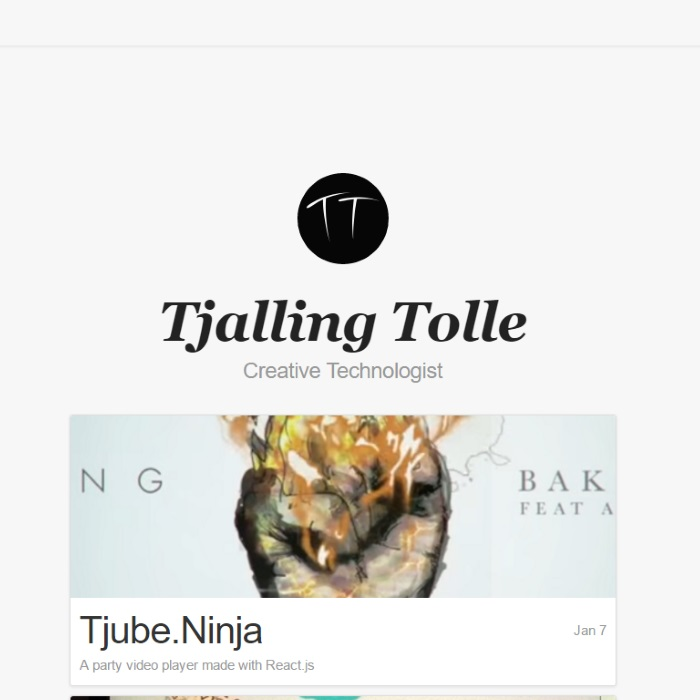
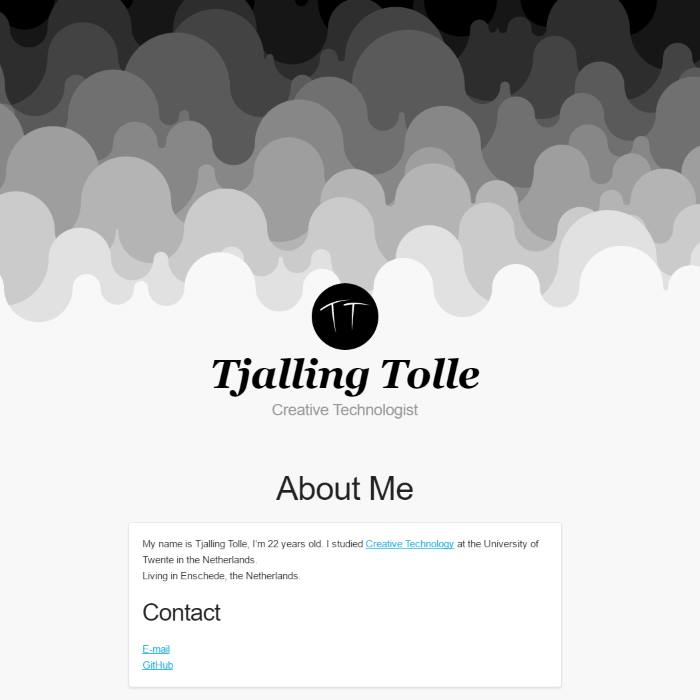
Various improvements

diff --git a/layouts/partials/meta.html b/layouts/partials/meta.html
@@ -1,4 +1,4 @@
-<meta charset="utf-8">
+<meta charset="UTF-8">
 <meta http-equiv="X-UA-Compatible" content="IE=edge">
 <meta name="viewport" content="width=device-width, initial-scale=1">
 {{ with .Site.Params.author }}
@@ -11,8 +11,17 @@
 <meta name="theme-color" content="#333">
 
 {{ template "_internal/opengraph.html" . }}
+{{ with .Params.image }}
+	<meta property="og:image" content="{{ . }}"/>
+{{end}}
+
 {{ template "_internal/google_news.html" . }}
+
 {{ template "_internal/schema.html" . }}
+{{ with .Params.image }}
+	<meta itemprop="image" content="{{ . }}">
+{{end}}
+
 {{ template "_internal/twitter_cards.html" . }}
 
 {{ .Hugo.Generator }}

diff --git a/layouts/_default/baseof.html b/layouts/_default/baseof.html
@@ -6,7 +6,7 @@
 			{{ if not .IsHome }}{{ .Title | title }} - {{ end }}{{ .Site.Title }}
 		</title>
 
-		<link rel="shortcut icon" href="/images/favicon.ico">
+		<link rel="shortcut icon" href="/images/favicon.png">
 		<link rel="stylesheet" href="/css/normalize.css">
 		<link rel="stylesheet" href="/css/skeleton.css">
 		<link rel="stylesheet" href="/css/style.css">

diff --git a/layouts/index.html b/layouts/index.html
@@ -5,6 +5,9 @@
 				{{ .Title | title }}
 			</h1>
 			<article class="card">
+				{{ with .Params.image }}
+					<img class="card-header-image" src="{{ . }}" alt="" />
+				{{ end }}
 				<section class="card-content markdown">
 					{{ .Content }}
 				</section>

diff --git a/layouts/partials/footer.html b/layouts/partials/footer.html
@@ -1,4 +1,4 @@
-<footer class="page-section">
+<footer>
 	<p class="text-center text-muted">
 		© Copyright {{.Now.Format "2006"}} {{ .Site.Params.author }}
 	</p>

diff --git a/static/css/style.css b/static/css/style.css
@@ -86,7 +86,7 @@ a.subtle {
 }
 
 .page-section {
-	margin: 3rem auto;
+	margin: 5rem auto;
 }
 
 .page-section.thin {

diff --git a/content/about/index.md b/content/about/index.md
@@ -1,10 +1,12 @@
 +++
 title = "About Me"
 weight = 1
+image = "/images/picture.jpg"
 
 +++
-My name is Tjalling Tolle, I'm 22 years old. I studied [Creative Technology](https://www.utwente.nl/en/education/bachelor/programmes/creative-technology/) at the University of Twente in the Netherlands.
-Living in Enschede, the Netherlands.
+Hello visitor, welcome to my portfolio site. My name is Tjalling Tolle and I'm 22 years old. I studied [Creative Technology](https://www.utwente.nl/en/education/bachelor/programmes/creative-technology/) at the University of Twente in the Netherlands. In my spare time I like to design and develop websites, apps and sometimes small games.
+
+I currently live in Enschede, the Netherlands.
 
 ### Contact
 

diff --git a/content/project/test.md b/content/project/test.md
@@ -9,6 +9,8 @@ draft = true
 # dit is een titel
 test
 
+utf-8 test:  ご飯が熱い。
+
 ---
 
 ## dit is een 2de titel
